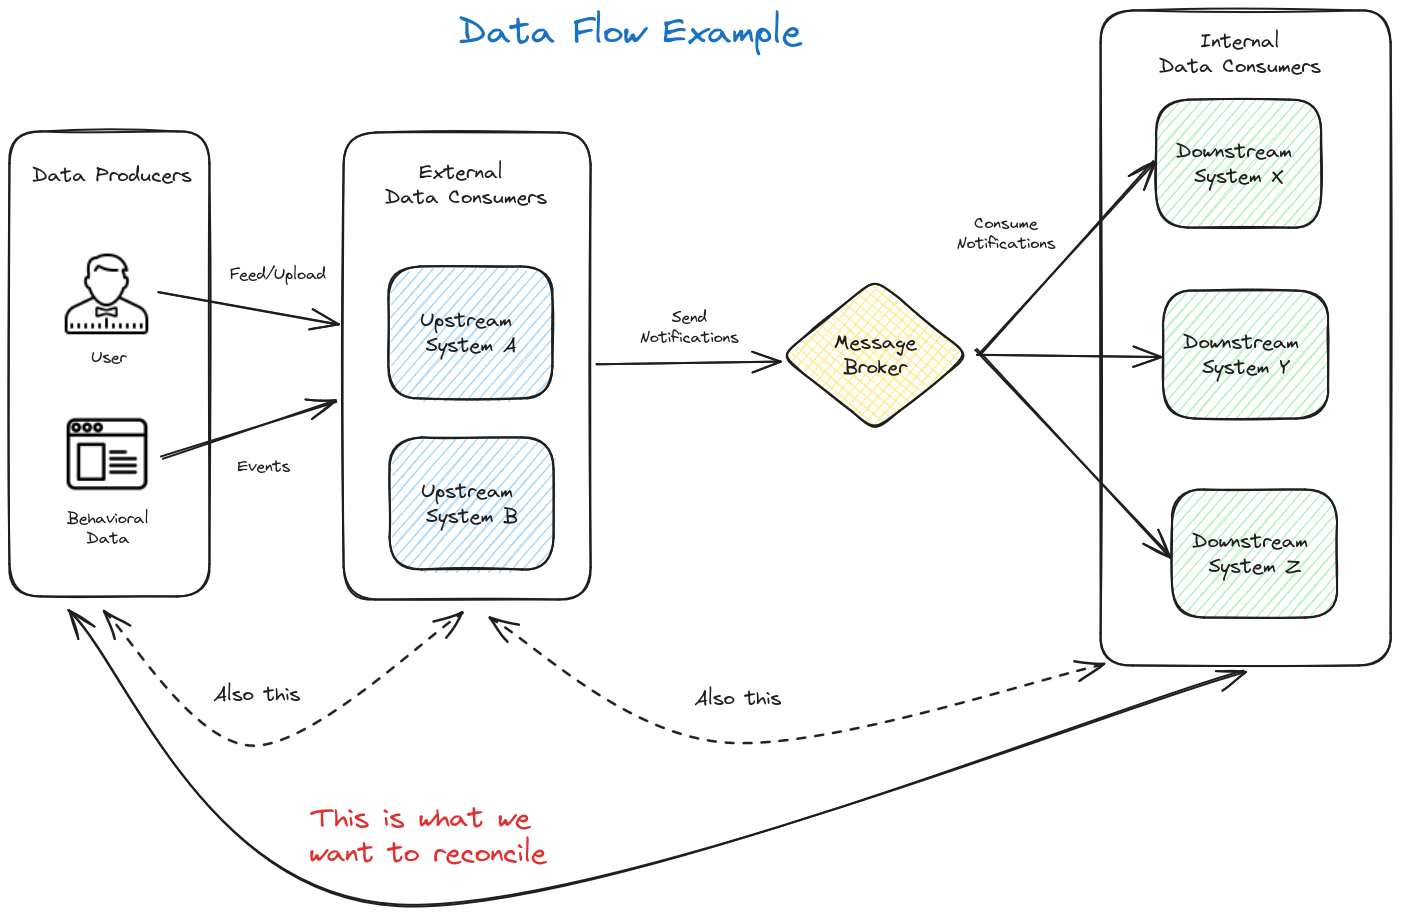
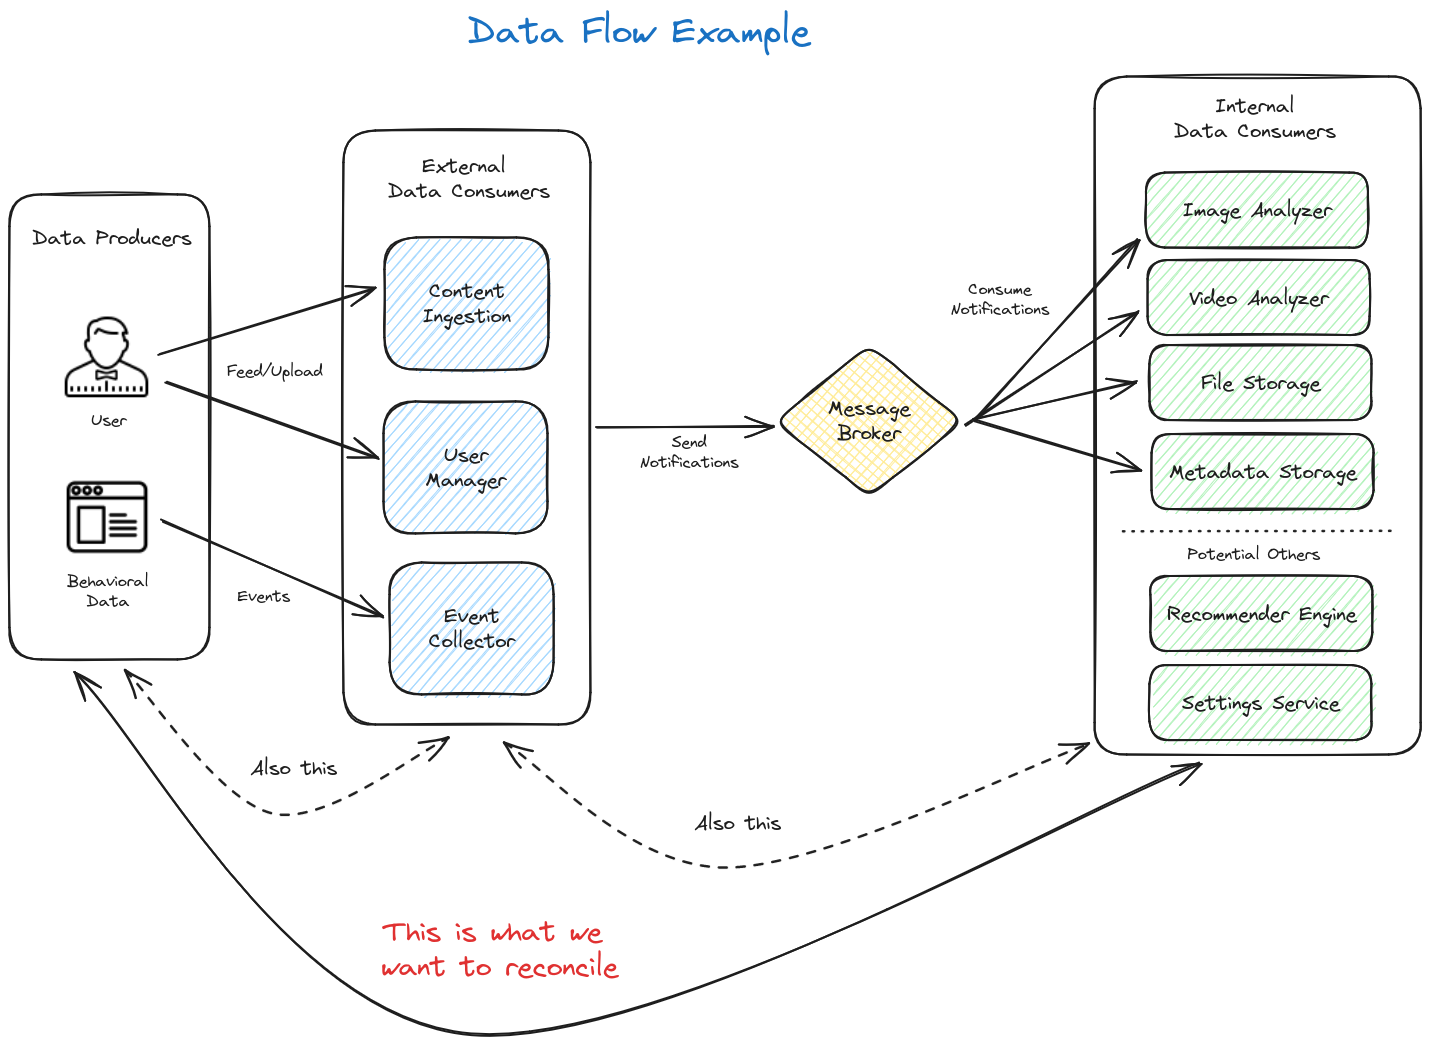
Much better post about data visibility

diff --git a/content/posts/designing-data-systems-with-visibility.md b/content/posts/designing-data-systems-with-visibility.md
@@ -1,12 +1,12 @@
 ---
 author:
   name: "Ross Brandon"
-date: 2023-11-02
-publishdate: 2023-11-02
-linktitle: "Designing Data Systems With Visibility & Management at the Forefront"
+date: 2023-11-29
+publishdate: 2023-11-29
+linktitle: "Designing Data Systems for Visibility & Management"
 type:
   - post
-title: "Designing Data Systems With Visibility & Management at the Forefront"
+title: "Designing Data Systems for Visibility & Management"
 weight: 10
 draft: false
 categories:
@@ -15,6 +15,7 @@ categories:
 tags:
   - software
   - dev
+  - data-flora
 ---
 
 ## What Do We Mean By Data Management?
@@ -25,7 +26,7 @@ Specifically: providing and exposing the needed visibility around system-to-syst
 
 ## Designing with Data Flow Visibility OOTB
 
-I have spent a lot of time in my professional career thus far working to ensure that data in system A is as expected in system B. Turns out, this is so critical that entire teams have been formed just to create and manage tooling to perform these reconciliations. I know because I was on one of them. Most of the tooling I have created around these efforts were an afterthought to the main business applications. The problem with this approach is that it tends to create an environment where data tracing, data visibility, and data management tools are created after the fact and from an "outside looking in" perspective instead of baked into the products we design and build.
+I have spent a lot of time in my professional career thus far working to ensure that data in system A is as expected in system B. Turns out, this is so critical that entire teams have been formed just to create and manage tooling to perform these reconciliations. I know because I was on one of them. Most of the tooling I have created around these efforts was an afterthought to the main business applications. The problem with this approach is that it tends to create an environment where data tracing, data visibility, and data management tools are created after the fact and from an "outside looking in" perspective instead of baked into the products we design and build.
 
 In this post, I intend to explore that process a little bit and address why "baking in" and designing solutions with this mindset at the forefront can help avoid future stress and improve the performance and reliablity of data systems from the onset of the project.
 
@@ -35,9 +36,9 @@ Let's face it... we won't. And when we have to, we won't want to and the level o
 
 ## Ok, Let's Get On With It
 
-### Example for Discussion Purposes
+### Illustrative Fake Scenario
 
-Below is a super basic example of a system diagram that accepts data generated from a user (uploaded or through user actions & events) and distributes it to many internal consumers to enable some sort of end-product functionality for that user -- real use cases may vary.
+To set the stage of our discussion, I have created a super basic system diagram (using the awesome [Excalidraw](https://excalidraw.com/) diagramming tool!) to lay out a fake application landscape that accepts data generated from a user (uploaded or through user actions & events) and distributes it to many internal consumers to enable some sort of end-product functionality for that user -- real use cases may vary.
 
 ![data flow example diagram](/image/data_mgmt/data_flow_example.png "data flow example diagram")
 (Diagram created with [Excalidraw](https://excalidraw.com/))
@@ -78,7 +79,7 @@ Ideally we would want to create an API, beacon, or manifest feed that provides t
 
 On the services side, this gets significantly easier because we typically have much greater control over these systems -- locked down third parties are excluded from this example as they may require more effort.
 
-In each service that we want to track as part of our system's data journey, we ideally want to create the following APIs:
+In each service that we want to track as part of our system's data journey, we ideally want to create some form of the following APIs:
 
 - Total documents received per-tenant
   - Options to filter on:
@@ -86,7 +87,7 @@ In each service that we want to track as part of our system's data journey, we i
     - Any relevant metadata that a downstream system's ingestion may filter on such as if an image is marked as public/private
 - Document detailed metadata by id
 - Error states in aggregate (and by document id if possible -- this can be expensive depending on data size)
-  - Ex. Failed to send 23581 notifications for Tenant 1 to message broker due to network error
+  - Ex. Failed to send 23581 notifications from the event collector to the message broker due to network error
 
 *Bonus*
 
@@ -124,45 +125,98 @@ External UI functionality ideas:
 
 #### Internal User View
 
-For our internal use cases we can create a multi-tenant, navigatable, and detailed view to give the power of all of this data directly to our internal support and engineering users.
+For our internal use cases we can create a multi-tenant, navigable, and detailed view to give the power of all of this data directly to our internal support and engineering users.
 
 Internal UI functionality ideas:
 
-- Tenant search - search and select a tenant to view data for
-- Aggregation view for all relevant systems for a given tenant
-- Drill down to detailed view for a given tenant and system
+- Client search - search and select a tenant to view data for
+- Aggregation view for all relevant systems for a given client
+- Drill down to detailed view for a given client and system
 - Allow for management of data
     - Deletion
-    - Re-sync between system A to X
+    - Re-sync between system A to X (ex. Content Ingestion to Image Analyzer)
 
-#### Barebones UI Example
+### Navigating Data Flows in a UI Example
 
-To exemplify this, below is a basic example UI of a data flow overview page. It represents a view of a selected tenant's data flow from the perspective of an internal support user. In this case, it follows our example system diagram describing an upstream system *A* and three downstream systems *X*, *Y*, and *Z*. This page shows three main widgets, one for each respective downstream system. Each widget shows the current status of the data flow (*In Error*, *In Progress*, or *Successful*) depending on the source vs destination document counts and various error metadata we are able to retrieve from our APIs. We also show the ID and timestamp of the last document that the downsteam system received. The donut chart shows the total count of documents as well as the count of documents for each state: *Not Sent*, *In Error*, and *Successful*. Finally, there is a *Details* link at the bottom of each card that leads to a detailed view of the data in that flow, if desired. This could be a table with a list of documents in error, more metadata about recent updates, etc.
+To exemplify this, I have created a basic concept application called [Data Flora](https://dataflora.dev). As part of this thought experiment, I like to think of data flows as living, growing entities that are expanding and thriving... like flora. And like flora, data flows need care and attention.
 
-This UI is obviously oversimplified and lacks basic navigational elements and functionality we would want for real users, but it serves to show that very basic data elements can go a long way in providing insightful information into what is going on in our data journey between systems.
+*Note:* I had a ton of fun making this app. It was a really good use case to throw together some concepts I have been thinking about for awhile as well as learn some new tech like [Svelte](https://svelte.dev/), [SvelteKit](https://kit.svelte.dev/), and [TailwindCSS](https://tailwindcss.com/). I also created a super basic [Rust](https://www.rust-lang.org/) service to make the data side of things a bit more real :smile:.
 
-![data flow example ui](/image/data_mgmt/data_flow_ui.png "data flow example ui")
-(UI prototype created with [Tremor](https://tremor.so/))
+Githubs:
+- UI code: [flora-dash](https://github.com/rossbrandon/flora-dash)
+- Rust backend: [flora-api](https://github.com/rossbrandon/flora-api)
 
-I fully conscede that donut charts are not everyone's favorite. They can easily be replaced with something like [data bars](https://www.tremor.so/docs/components/data-bars) to represent percent progress instead.
+#### Client Search
 
-![data bars example](/image/data_mgmt/data_flow_bar_chart.png "data bars example")
+![data flora example ui](/image/data_mgmt/data_flora_clients.png "data flow example ui")
+(UI prototype created with [Svelte](https://svelte.dev/) and [Skeleton UI](https://www.skeleton.dev/))
 
-Charting can also be added to track trends in error states.
+The Data Flora application example represents an internal tool that engineering/support/etc could use to trace data flow statistics and errors as they come in from various clients and flow between systems.
 
-![error state trends example](/image/data_mgmt/data_flow_error_chart.png "error state trends example")
+The landing page show above is a list of all of the clients that we have visibility into. The search bar at the top of the screen can be used to filter these clients as there may be many clients feeding us data.
 
-Drilling into a specific data flow (ex. Upstream A to Downstream X) can populate a table with per-document state information.
+![data flora client search](/image/data_mgmt/data_flora_client_search.png "data flora client search")
 
-![data flow detail table example](/image/data_mgmt/data_flow_table.png "data flow detail table example")
+As an example, we'll follow the flow of this UI from the perspective of a support engineer analyzing the data flow of an internal system-to-system pipeline. For simplicity, it will follow our example system diagram above describing an internal data pipeline: an upstream data ingestion endpoint named *Content Ingestion* that receives data feeds from clients and pushes messages to four downstream systems: an *Image Analyzer* service, a *Video Analyzer* service, a *File Storage* system, and a *Metadata Storage* system. This represents the internal side of this fake application's data flow for all users. The first *Internal* client card in the client list screen above allows us to see this view. Other cards would represent individual clients that feed our systems with their individual data rather than the system-to-system flows as a whole that we will explore here.
 
-*Reiterating Note:* Given my terrible UX skills, I am unable to effectively put together all of these pieces into a sleek UI without banging my head against my desk for hours on end, but the basic widgets demonstrate key pieces of functionality that can be combined into a cohesive experience tailored for our different user personas.
+#### Client Data Flows
+
+So, to continue, we can click the *Data Flows ->* link on the *Internal Pipelines* card and navigate into this client's first layer: the upstream data flows page.
+
+![data flora client info](/image/data_mgmt/data_flora_client_info.png "data flora client info screen")
+
+This page shows basic client information and all of the *data flows* that belong to it. In our example, we see the three main upstreams: *Content Ingestion*, *Event Collector*, and *User Manager* following our example system diagram. Each of these data flow cards show high level information about the state of each data flow including an overall and individual downstream system status: *Healthy*, *Unhealthy*, or *Investigation Needed* depending on the state the downstreams systems are reporting and the defined threseholds for status classifications (such as if data is still flowing, within acceptable error rates, etc).
+
+![data flora upstream card](/image/data_mgmt/data_flora_upstream_card.png "data flora upstream card")
+
+#### Upstream Details
+
+Clicking into the *Content Ingestion* card takes us to the upstream information page.
+
+![data flora upstream info](/image/data_mgmt/data_flora_upstream.png "data flora upstream info screen")
+
+Here, we follow a similar paradigm for showing basic upstream data flow information including a document count summary, links to system diagrams/runbooks/contact channels, and a list of downstream system flows. These cards are the keys to the data flow health analysis. Each card represents the state of a downstream system that receives data from the upstream system we are viewing, *Content Ingestion*. We can see the overall status of that data flow: *Successful*, *In Progress*, or *Failed*, the timestamp of the last document received by that system, and simple charts to show the total counts of documents received, missing, or in error depending on the source vs destination document counts and various error metadata we are able to retrieve from our APIs. Hovering over the charts will show counts of documents in each represented state.
+
+#### Downstream Status
+
+![data flora downstream card](/image/data_mgmt/data_flora_downstream_card.png "data flora downstream card")
+
+We can see that the fourth card, *Metadata Storage*, is indicating that the data flow has failed. We can see that the flow expects 1500 documents, but has only received 1035. By hovering over the parts of the donut chart, can see that 115 documents are missing and 350 documents have been found to be in error. Since the last document was received some time ago, this data flow is marked as failed.
+
+Let's drill into this data flow to see what is going on...
+
+#### Data Flow Errors
+
+![data flora downstream errors](/image/data_mgmt/data_flora_downstream.png "data flora downstream errors screen")
+![data flora downstream errors second half](/image/data_mgmt/data_flora_downstream_2.png "data flora downstream errors screen second half")
+
+The final page in this data flow example is the downstream error information page. At the top, we can see a few fields about the downstream system we are viewing followed by error detail charting and reporting as well as action buttons we can use to try to remedy issues in our data flows.
+
+![data flora downstream error chart](/image/data_mgmt/data_flora_error_chart.png "data flora downstream error chart")
+
+The Error Details section is where we can gain critical insights into what is happening in our systems. We can see the data flow totals of expected vs received and in-error documents, the breakdown of data flow error types, as well as a table representing all of the data flow errors detected by document.
+
+![data flora downstream error table](/image/data_mgmt/data_flora_error_table.png "data flora downstream error table")
+
+The error detail table is sorted by the timestamp of the document error (descending) and contains the document id in question, its type (in this example, the error type is a Network error, but it could be anything), a link to the log event of this error (could be to Splunk, New Relic, Loki, your custom unicorn log aggregator, etc), the error event message, and the timestamp of the error. Although not shown in this UI, the table would ideally be searchable by fields such as document id and type.
+
+#### Taking Action
+
+Now that we have identified potential problem areas, we can take a couple actions to attempt correction.
+
+![data flora resync action button](/image/data_mgmt/data_flora_resync_action.png "data flora resync action button")
+
+One of the actions we can take is to initate a re-syncronization of the data flowing between this upstream and downstream. This can be especially handy when the engineering teams have resolved a bug in the data flow and we simply need to get the systems back in sync after its resolution. This action calls out the appropriate warning because resyncing data typically has network and storage cost implications.
+
+![data flora delete action button](/image/data_mgmt/data_flora_delete_action.png "data flora delete action button")
+
+Another action we can take is to simply delete the data in this downstream system. This may or may not be useful in resolving an issue in the data flow, but it is very handly in exposing this functionality to authorized users (and potentially automation though APIs) to handle data cleanup tasks when a user requests that their data to be removed, deletes their account, or any other GDPR related request. Personally, I've found these simple actions to be extremely powerful when dealing with client data (and building systems on the engineering side).
 
 ## What Do We Gain?
 
 As we continue to build out this functionality through our applications, we start to reveal a "map" of how our data flows through our various upstream and downstream systems from end-to-end (client to end product). The more data we feed into this tooling, the more historical analysis we gather that can be used not only to solve immediate problems but identify trends and predict future problems with data flows.
 
-The immedate gain is less angry users. Since we have now provided the necessary visibility and action tooling to our support personal (or even the users themselves in certain cases), we can allow for faster recovery to data integrity issues and improve product performance and reliability. Less support tickets equals happier users, happier support personnel, and happier engineering teams who can spend more time building the fun stuff instead of tracking down bugs.
+The immediate benefit is fewer frustrated users. Since we have now provided the necessary visibility and action tooling to our support personal (or even the users themselves in certain cases), we can allow for faster recovery to data integrity issues and improve product performance and reliability. Less support tickets equals happier users, happier support personnel, and happier engineering teams who can spend more time building the fun stuff instead of tracking down bugs.
 
 Speaking of engineers, visibility and management of data flows plays a critical role in the development process. Putting these tools into the hands of our engineers allows for real time feedback of data flowing through QA systems and easy triggers for re-sending and moving test data through these systems while building features and troubleshooting bugs.
 
@@ -172,8 +226,12 @@ Increasing the visibility into our data journey can help us in ensuring we are c
 
 ## Isn't This Expensive?
 
-Yes. Definitely. However, I believe that designing with this mindset from the beginning will help keep costs and engineering effort within manageable limits. When working with large data sets, the querying of this data in real time becomes much more costly (both in money and time). While I do acknowledge this and suggest spending design time thinking of how to best query large datasets and weighing the pros and cons of real time reporting vs scheduled aggregations that this tooling can read for less load on crictical systems, I truly believe that the value of this visibility and management tooling speaks for itself. Especially when we have large customers feeding us millions of documents every day and expecting that updates are reflected in real time in our products and services.
+Yes. Definitely. However, I believe that designing with this mindset from the beginning will help keep costs and engineering effort within manageable limits. When working with large data sets, the querying of this data in real time becomes much more costly (both in money and time). While I do acknowledge this and suggest spending design time thinking of how to best query large datasets and weighing the pros and cons of real time reporting vs scheduled aggregations that this tooling can read for less load on critical systems, I truly believe that the value of this visibility and management tooling speaks for itself. Especially when we have large customers feeding us millions of documents every day and expecting that updates are reflected in real time in our products and services.
 
 The ideas discussed here require more effort up front to build but aim to save much more time later on. The "fail fast and iterate" approach may want to write this off at first, but I would argue that this tooling *assists* in that iterative approach by giving teams visibility in the behavior of the solutions they are rapidly building and allow for more confidence in iterations and further product MVPs.
+
+## Give Me the Takeaway
+
+To put it simply... by taking steps to integrate standardized, robust, and cohesive visibility and management tools into the foundational design of data systems, we not only enhance real-time problem-solving capabilities for our teams but also empower our users, reduce support overhead, and fortify our commitment to data integrity, compliance, and seamless user experiences. All of this ultimately paving the way for more efficient and resilient data-driven systems. And what kind of data nerd doesn't want that?
 
 *Data nerds unite!*
